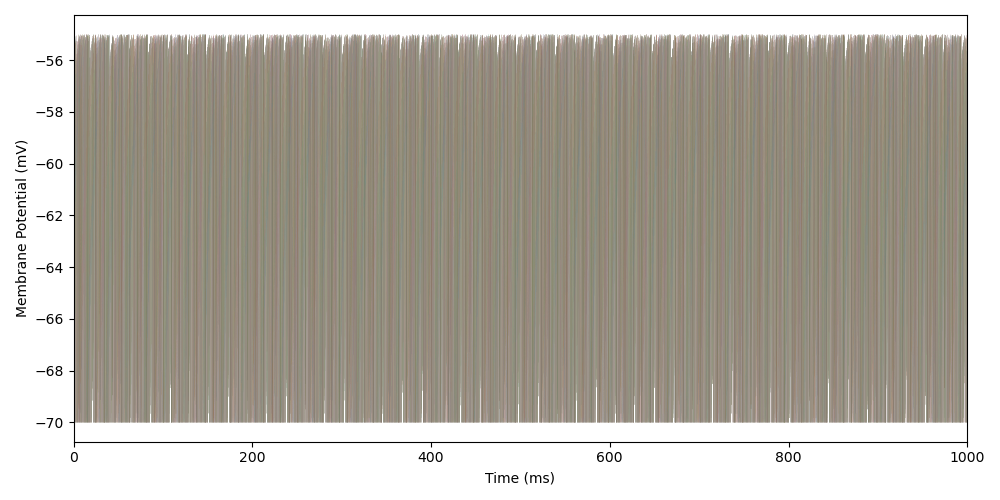
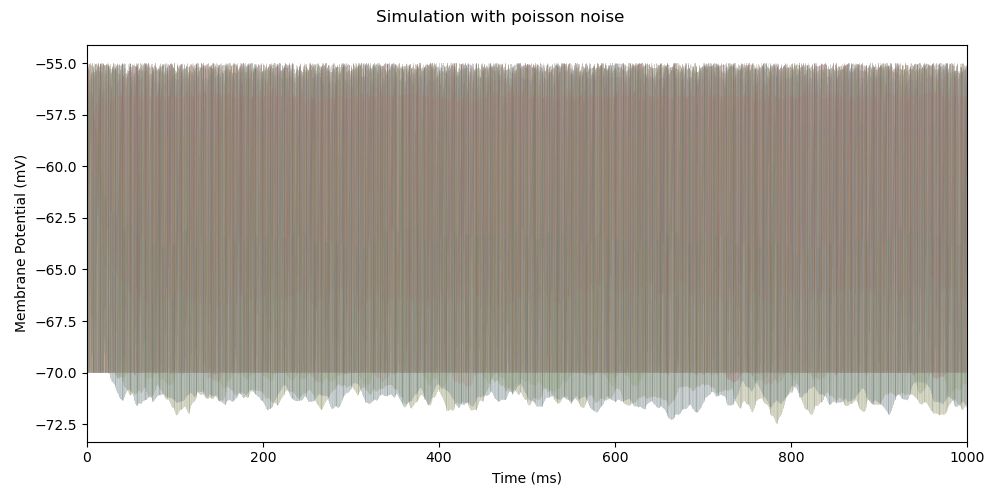
add tutodoc 2 and allrand

diff --git a/sample_codes/grid_iaf_oc.py b/sample_codes/grid_iaf_oc.py
@@ -1,0 +1,55 @@
+# -*- coding: utf-8 -*-
+#
+# grid_iaf_oc.py
+#
+# This file is part of NEST.
+#
+# Copyright (C) 2004 The NEST Initiative
+#
+# NEST is free software: you can redistribute it and/or modify
+# it under the terms of the GNU General Public License as published by
+# the Free Software Foundation, either version 2 of the License, or
+# (at your option) any later version.
+#
+# NEST is distributed in the hope that it will be useful,
+# but WITHOUT ANY WARRANTY; without even the implied warranty of
+# MERCHANTABILITY or FITNESS FOR A PARTICULAR PURPOSE.  See the
+# GNU General Public License for more details.
+#
+# You should have received a copy of the GNU General Public License
+# along with NEST.  If not, see <http://www.gnu.org/licenses/>.
+
+"""
+4x3 grid for three populations
+------------------------------
+
+Create three populations of iaf_psc_alpha neurons on a 4x3 grid, each with different center.
+
+BCCN Tutorial @ CNS*09
+Hans Ekkehard Plesser, UMB
+"""
+
+import nest
+import matplotlib.pyplot as plt
+import numpy as np
+
+for ctr in [(0.0, 0.0), (-2.0, 2.0), (0.5, 1.0)]:
+    plt.figure()
+    nest.ResetKernel()
+
+    l1 = nest.Create("iaf_psc_alpha", positions=nest.spatial.grid(shape=[4, 3], extent=[2.0, 1.5], center=ctr))
+
+    nest.PlotLayer(l1, nodesize=50, fig=plt.gcf())
+
+    # beautify
+    plt.axis([-3, 3, -3, 3])
+    plt.axes().set_aspect("equal", "box")
+    plt.axes().set_xticks(np.arange(-3.0, 3.1, 1.0))
+    plt.axes().set_yticks(np.arange(-3.0, 3.1, 1.0))
+    plt.grid(True)
+    plt.xlabel(f"4 Columns, Extent: 1.5, Center: {ctr[0]:.1f}")
+    plt.ylabel(f"2 Rows, Extent: 1.0, Center: {ctr[1]:.1f}")
+
+    plt.show()
+    plt.tight_layout()
+    plt.savefig('grid_iaf_oc_{}_{}.png'.format(ctr[0], ctr[1]))

diff --git a/allrand/pop_with_rand_params.py b/allrand/pop_with_rand_params.py
@@ -10,6 +10,9 @@ neuronpop2 = nest.Create("iaf_psc_alpha", 100)
 neuronpop3 = nest.Create("iaf_psc_alpha", 100)
 '''
 ### 1. Creation setting
+noise = nest.Create("poisson_generator", 2)
+noise[0].rate = 80000.0
+noise[1].rate = 15000.0
 
 edict = {"I_e": 500.0} # Parameter default value dictionary setting
 nest.CopyModel("iaf_psc_alpha", "exc_iaf_psc_alpha") # "exc_iaf_psc_alpha" is a new customized model forked from iaf_psc_alpha, a predefined, built-in model in NEST.
@@ -50,6 +53,7 @@ nest.Connect(epop1, epop2, conn_dict_ex, syn_dict_ex)
 nest.Connect(ipop2, epop2, conn_dict_in, syn_dict_in)
 nest.Connect(ipop1, epop2, conn_dict_in, syn_dict_in)
 
+nest.Connect(noise, epop2, syn_spec={"weight": nest.random.uniform(-1.0, 1.0), "delay": 1.0})
 
 ### 3. Device setting
 #pg = nest.Create("poisson_generator")
@@ -92,7 +96,7 @@ for j in range(0, garo*sero):
     plt.title("Epop 2 node "+str(j+1))
     if(j == round((garo*sero)/2)-1): plt.ylabel("Membrane Potential (mV)")
     
-
+plt.suptitle('Simulation with poisson noise')
 plt.tight_layout()
 plt.show()
 plt.savefig('onetoten_epop_4.png')
@@ -107,6 +111,7 @@ for k in range(0, multinum):
     #if(j == round((garo*sero)/2)-1): plt.ylabel("Membrane Potential (mV)")
     plt.ylabel("Membrane Potential (mV)")
 
+plt.suptitle('Simulation with poisson noise')
 plt.tight_layout()
 plt.show()
 plt.savefig('all_epop_4.png')
